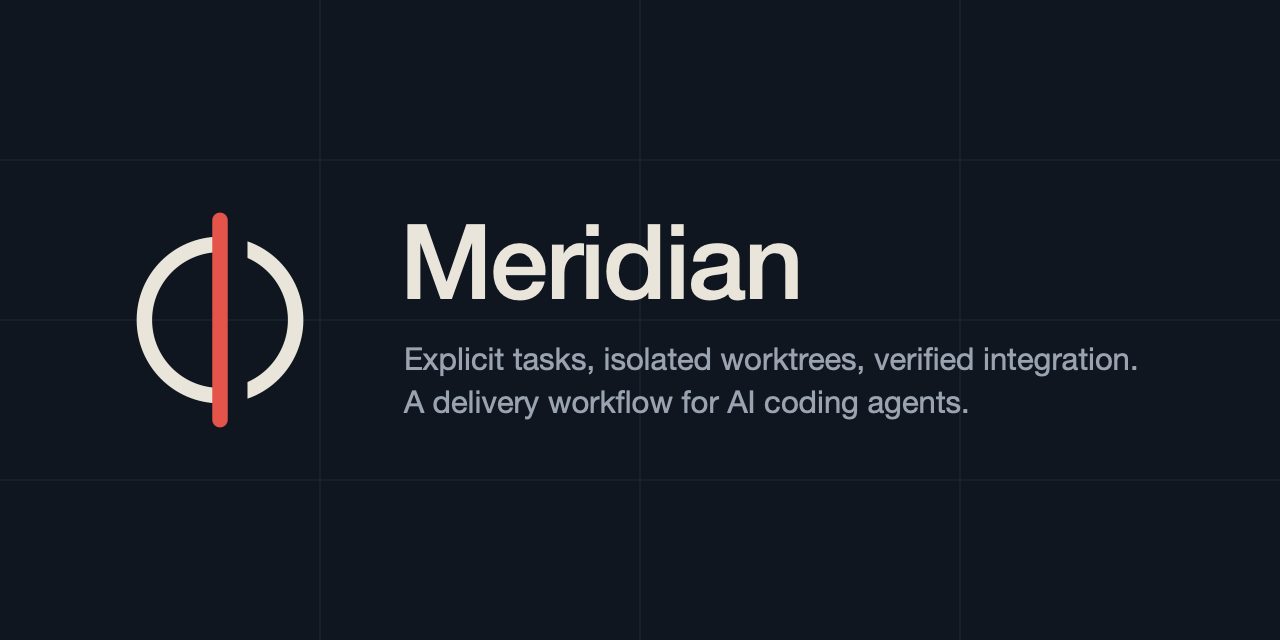
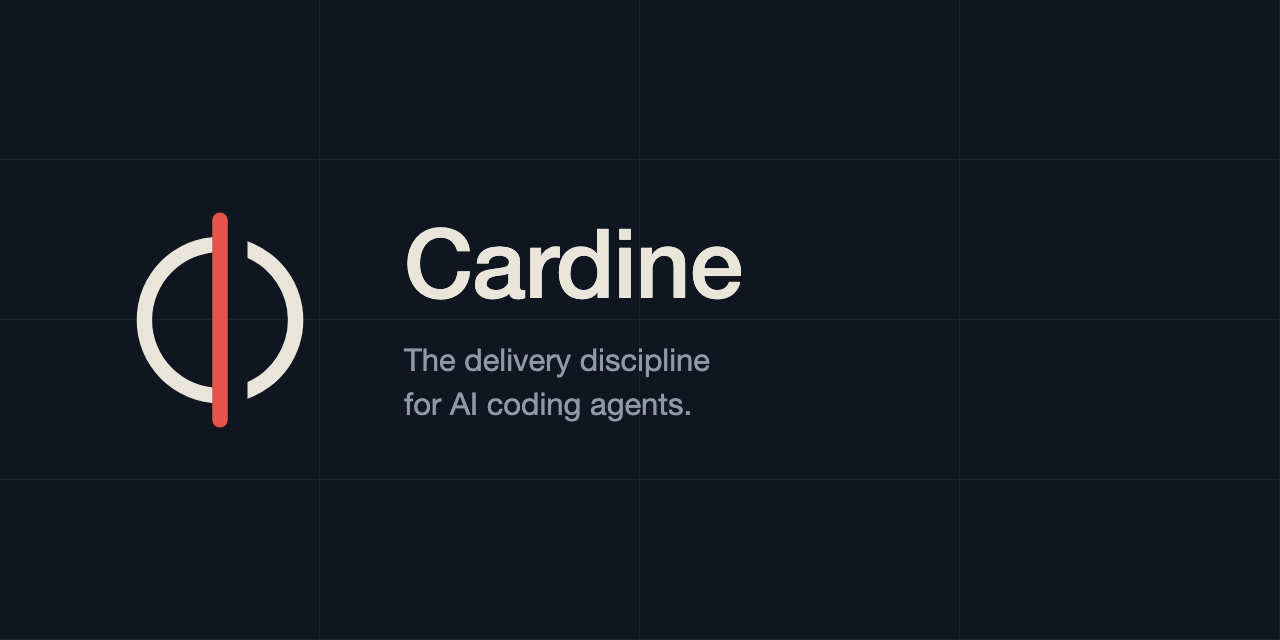
Align README and ADR with the current product
Restore the logo in the README and regenerate the social preview for
Cardine. State that cardine run needs an Expected code surface in both
presets, in the README and in ADR decision 3, and that pipx install
cardine arrives with 1.0 on PyPI while 0.9 is a Git tag.

Changed region(s): [[0.3125, 0.5312, 0.875, 0.6562], [0.3125, 0.3438, 0.625, 0.4688]]

diff --git a/README.md b/README.md
@@ -1,3 +1,10 @@
+<p align="center">
+  <picture>
+    <source media="(prefers-color-scheme: dark)" srcset="docs/assets/meridian-mark-dark.svg">
+    <img src="docs/assets/meridian-mark-light.svg" alt="Cardine logo" width="96" height="96">
+  </picture>
+</p>
+
 <h1 align="center">Cardine</h1>
 
 <p align="center"><strong>The delivery discipline for AI coding agents.</strong></p>
@@ -17,7 +24,8 @@ with a reason and the exact command to resume.
 ## What Cardine does
 
 You describe one task in a short contract: objective, acceptance criteria,
-validation commands, dependencies. Your agent then calls one command,
+the files it may change, validation commands, dependencies. Your agent then
+calls one command,
 `cardine run <TASK-ID>`, again and again. Each call performs the next step of
 the task and prints JSON with the outcome and the exact command to run next.
 
@@ -189,7 +197,8 @@ can raise or lower them.
 | | `lean` (default) | `governed` |
 | --- | --- | --- |
 | Independent review | not required | required |
-| `Authority` and `Expected code surface` fields | optional | required |
+| `Authority` field | optional | required |
+| `Expected code surface` field | needed by `cardine run` | required |
 | Validation retry limit | 3 | 3 |
 
 A `spike` task class for exploratory work, with an `ANSWERED` or
@@ -247,7 +256,8 @@ pipx install --editable ~/src/cardine
 cardine --version
 ```
 
-From 0.9, `pipx install cardine` installs a release.
+0.9 will be a Git tag, installed the same way from a clone. `pipx install
+cardine` arrives with 1.0, published on PyPI.
 
 ## Documentation
 

diff --git a/docs/ADR_CARDINE_1_0.md b/docs/ADR_CARDINE_1_0.md
@@ -136,11 +136,17 @@ Meridian's workflows established:
 | Option | `lean` preset | `governed` preset |
 | --- | --- | --- |
 | Review | not required | required |
-| `Authority` and `Expected code surface` | optional | required |
+| `Authority` | optional | required |
+| `Expected code surface` (amended on 2026-11-08) | needed by `cardine run` | required |
 | Blocking dependencies | yes | yes |
 | `spike` class | available | available |
 | Validation retry limit | 3 | 3 |
 | Quick failure limit (amended on 2026-11-05) | 10 | 10 |
+
+Amended on 2026-11-08: `Expected code surface` is not optional in either
+preset. It bounds unattended work (decision 12), and `cardine run` stops with
+`SCOPE_CHANGE_REQUIRED` when a task has none. In `lean`, `cardine task new`
+still accepts a record without it.
 
 `cardine init` asks for the preset. `lean` replaces Lean Delivery and is the
 default for new projects. `governed` reproduces today's Governed SDD
